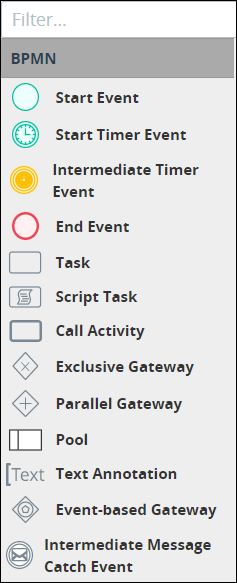
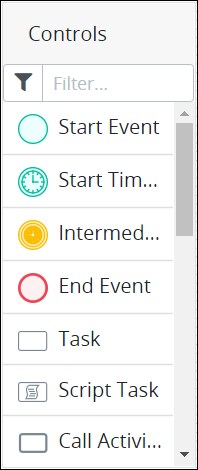
GitBook: [processmaker] 10 pages and 4 assets modified

diff --git a/designing-processes/process-design/model-your-process/filter-elements-in-the-bpmn-panel.md b/designing-processes/process-design/model-your-process/filter-elements-in-the-bpmn-panel.md
@@ -1,13 +1,13 @@
 ---
-description: Filter which BPMN elements display in the BPMN panel.
+description: Filter which elements display in the Controls panel.
 ---
 
-# Filter Elements in the BPMN Panel
+# Filter Elements in the Controls Panel
 
-## Filter Which BPMN Elements Display in the BPMN Panel
+## Filter Which Elements Display in the Controls Panel
 
 {% hint style="info" %}
-Your user account or group membership must have the following permissions to filter BPMN elements in the **BPMN** panel:
+Your user account or group membership must have the following permissions to filter elements in the **Controls** panel:
 
 * Processes: View Processes
 * Processes: Edit Processes
@@ -15,29 +15,71 @@ Your user account or group membership must have the following permissions to fil
 See the [Process](../../../processmaker-administration/permission-descriptions-for-users-and-groups.md#processes) permissions or ask your ProcessMaker Administrator for assistance.
 {% endhint %}
 
-The **BPMN** panel in Process Modeler displays elements that can compose a Process model.
+The **Controls** panel in Process Modeler displays elements that can compose a Process model.
 
-![BPMN Panel in Process Modeler](../../../.gitbook/assets/bpmn-panel-process-modeler-processes.png)
+![Controls Panel in Process Modeler](../../../.gitbook/assets/bpmn-panel-process-modeler-processes.png)
 
 {% hint style="info" %}
 See [Process Modeling Element Descriptions](process-modeling-element-descriptions.md).
 {% endhint %}
 
-Follow these steps to filter which BPMN elements display in the **BPMN** panel:
+Follow these steps to filter which Process modeling elements display in the **Controls** panel:
 
 1. [View your Processes](https://processmaker.gitbook.io/processmaker-4-community/-LPblkrcFWowWJ6HZdhC/~/drafts/-LRhVZm0ddxDcGGdN5ZN/primary/designing-processes/viewing-processes/view-the-list-of-processes/view-your-processes#view-all-processes). The **Processes** page displays.
 2. [Create a new Process](../../viewing-processes/view-the-list-of-processes/create-a-process.md) or click the **Open Modeler** icon![](../../../.gitbook/assets/open-modeler-edit-icon-processes-page-processes.png)to edit the selected Process model. Process Modeler displays.
-3. Select the **Filter** field.
+3. Select the **Filter** field in the **Controls** panel.
 
    ![](../../../.gitbook/assets/filter-bpmn-field-process-modeler-processes.png)
 
-4. Begin entering the name of the Process model element\(s\) to display. Process model elements that do not match your entered text no longer display in the **BPMN** panel.
+4. Begin entering the name of the Process model element\(s\) to display. Process model elements that do not match your entered text no longer display in the **Controls** panel.
 
 {% hint style="info" %}
-To display all Process elements in the **BPMN** panel, remove the text from the **Filter** field.
+To display all Process elements in the **Controls** panel, remove the text from the **Filter** field.
 {% endhint %}
 
 ## Related Topics
 
 {% page-ref page="process-modeling-element-descriptions.md" %}
+
+{% page-ref page="view-the-inspector-panel.md" %}
+
+{% page-ref page="edit-the-process-model-information.md" %}
+
+{% page-ref page="filter-elements-in-the-bpmn-panel.md" %}
+
+{% page-ref page="add-and-configure-an-event-element.md" %}
+
+{% page-ref page="add-and-configure-start-timer-event-elements.md" %}
+
+{% page-ref page="add-and-configure-intermediate-timer-event-elements.md" %}
+
+{% page-ref page="add-and-configure-intermediate-message-catch-event-elements.md" %}
+
+{% page-ref page="add-and-configure-end-event-elements.md" %}
+
+{% page-ref page="add-and-configure-task-elements.md" %}
+
+{% page-ref page="add-and-configure-script-task-elements.md" %}
+
+{% page-ref page="add-and-configure-manual-task-elements.md" %}
+
+{% page-ref page="add-and-configure-call-activity-elements.md" %}
+
+{% page-ref page="add-and-configure-exclusive-gateway-elements.md" %}
+
+{% page-ref page="add-and-configure-inclusive-gateway-elements.md" %}
+
+{% page-ref page="add-and-configure-parallel-gateway-elements.md" %}
+
+{% page-ref page="add-and-configure-event-based-gateway-elements.md" %}
+
+{% page-ref page="add-and-configure-pool-and-lane-elements.md" %}
+
+{% page-ref page="the-quick-toolbar.md" %}
+
+{% page-ref page="set-and-delete-message-flow-between-elements.md" %}
+
+{% page-ref page="add-and-configure-text-annotation-elements.md" %}
+
+{% page-ref page="remove-process-model-elements.md" %}
 

diff --git a/designing-processes/process-design/model-your-process/edit-the-process-model-information.md b/designing-processes/process-design/model-your-process/edit-the-process-model-information.md
@@ -21,7 +21,7 @@ Follow these steps to edit the identifier value for a Process model:
 
 1. [View your Processes](https://processmaker.gitbook.io/processmaker-4-community/-LPblkrcFWowWJ6HZdhC/~/drafts/-LRhVZm0ddxDcGGdN5ZN/primary/designing-processes/viewing-processes/view-the-list-of-processes/view-your-processes#view-all-processes). The **Processes** page displays.
 2. [Create a new Process](../../viewing-processes/view-the-list-of-processes/create-a-process.md) or click the **Open Modeler** icon![](../../../.gitbook/assets/open-modeler-edit-icon-processes-page-processes.png)to edit the selected Process model. Process Modeler displays.
-3. Click anywhere in the Process model other than any Process element so that no elements are selected. In the **Inspector** panel, the current Process model identifier value displays in the **Identifier** field in the right side bar.
+3. Click anywhere in the Process model other than any Process element so that no elements are selected. The **Inspector** panel displays the **Configuration** setting section.
 4. Expand the **Configuration** setting section if it is not presently expanded. The **Identifier** field displays. This is a required field.  
 
    ![](../../../.gitbook/assets/process-model-identier-field-modeler-processes.png)
@@ -45,7 +45,7 @@ Follow these steps to edit the Process model name:
 
 1. [View your Processes](https://processmaker.gitbook.io/processmaker-4-community/-LPblkrcFWowWJ6HZdhC/~/drafts/-LRhVZm0ddxDcGGdN5ZN/primary/designing-processes/viewing-processes/view-the-list-of-processes/view-your-processes#view-all-processes). The **Processes** page displays.
 2. [Create a new Process](../../viewing-processes/view-the-list-of-processes/create-a-process.md) or click the **Open Modeler** icon![](../../../.gitbook/assets/open-modeler-edit-icon-processes-page-processes.png)to edit the selected Process model. Process Modeler displays.
-3. Select anywhere in the Process model other than any Process element so that no elements are selected. The current Process model name displays in the **Name** field in the right side bar.
+3. Click anywhere in the Process model other than any Process element so that no elements are selected. The **Inspector** panel displays the **Configuration** setting section.
 4. Expand the **Configuration** setting section if it is not presently expanded. The **Name** field displays.  
 
    ![](../../../.gitbook/assets/process-model-identier-field-modeler-processes.png)
@@ -55,4 +55,44 @@ Follow these steps to edit the Process model name:
 ## Related Topics
 
 {% page-ref page="process-modeling-element-descriptions.md" %}
+
+{% page-ref page="view-the-inspector-panel.md" %}
+
+{% page-ref page="filter-elements-in-the-bpmn-panel.md" %}
+
+{% page-ref page="add-and-configure-an-event-element.md" %}
+
+{% page-ref page="add-and-configure-start-timer-event-elements.md" %}
+
+{% page-ref page="add-and-configure-intermediate-timer-event-elements.md" %}
+
+{% page-ref page="add-and-configure-intermediate-message-catch-event-elements.md" %}
+
+{% page-ref page="add-and-configure-end-event-elements.md" %}
+
+{% page-ref page="add-and-configure-task-elements.md" %}
+
+{% page-ref page="add-and-configure-script-task-elements.md" %}
+
+{% page-ref page="add-and-configure-manual-task-elements.md" %}
+
+{% page-ref page="add-and-configure-call-activity-elements.md" %}
+
+{% page-ref page="add-and-configure-exclusive-gateway-elements.md" %}
+
+{% page-ref page="add-and-configure-inclusive-gateway-elements.md" %}
+
+{% page-ref page="add-and-configure-parallel-gateway-elements.md" %}
+
+{% page-ref page="add-and-configure-event-based-gateway-elements.md" %}
+
+{% page-ref page="add-and-configure-pool-and-lane-elements.md" %}
+
+{% page-ref page="the-quick-toolbar.md" %}
+
+{% page-ref page="set-and-delete-message-flow-between-elements.md" %}
+
+{% page-ref page="add-and-configure-text-annotation-elements.md" %}
+
+{% page-ref page="remove-process-model-elements.md" %}
 

diff --git a/SUMMARY.md b/SUMMARY.md
@@ -79,7 +79,7 @@
     * [Screens Builder Modes](designing-processes/design-forms/screens-builder/screens-builder-modes.md)
     * [View the Inspector Panel](designing-processes/design-forms/screens-builder/view-the-inspector-pane.md)
     * [Validate Your Screen](designing-processes/design-forms/screens-builder/validate-your-screen.md)
-    * [Edit a Screen](designing-processes/design-forms/screens-builder/control-descriptions/README.md)
+    * [Edit Your Screen](designing-processes/design-forms/screens-builder/control-descriptions/README.md)
       * [Text Control Settings](designing-processes/design-forms/screens-builder/control-descriptions/text-control-settings.md)
       * [Rich Text Control Settings](designing-processes/design-forms/screens-builder/control-descriptions/rich-text-control-settings.md)
       * [Line Inputs Control Settings](designing-processes/design-forms/screens-builder/control-descriptions/line-input-control-settings.md)
@@ -101,7 +101,7 @@
     * [Preview a Screen and Its JSON Data Model](designing-processes/design-forms/screens-builder/preview-a-screen.md)
     * [Manage Computed Properties](designing-processes/design-forms/screens-builder/manage-computed-properties.md)
     * [Add Custom CSS to a Screen](designing-processes/design-forms/screens-builder/add-custom-css-to-a-screen.md)
-    * [Save a Screen](designing-processes/design-forms/screens-builder/save-a-screen.md)
+    * [Save Your Screen](designing-processes/design-forms/screens-builder/save-a-screen.md)
     * [Screens Builder Best Practices](designing-processes/design-forms/screens-builder/best-practices.md)
 * [Environment Variable Management](designing-processes/environment-variable-management/README.md)
   * [What is an Environment Variable?](designing-processes/environment-variable-management/what-is-an-environment-variable.md)
@@ -114,10 +114,10 @@
 * [Process Modeling](designing-processes/process-design/README.md)
   * [What is Process Modeling?](designing-processes/process-design/what-is-process-modeling.md)
   * [Model Your Process](designing-processes/process-design/model-your-process/README.md)
-    * [View the Inspector Panel](designing-processes/process-design/model-your-process/view-the-inspector-panel.md)
     * [Process Modeling Element Descriptions](designing-processes/process-design/model-your-process/process-modeling-element-descriptions.md)
+    * [View the Inspector Panel](designing-processes/process-design/model-your-process/view-the-inspector-panel.md)
     * [Edit the Process Model Information](designing-processes/process-design/model-your-process/edit-the-process-model-information.md)
-    * [Filter Elements in the BPMN Panel](designing-processes/process-design/model-your-process/filter-elements-in-the-bpmn-panel.md)
+    * [Filter Elements in the Controls Panel](designing-processes/process-design/model-your-process/filter-elements-in-the-bpmn-panel.md)
     * [Add and Configure Start Event Elements](designing-processes/process-design/model-your-process/add-and-configure-an-event-element.md)
     * [Add and Configure Start Timer Event Elements](designing-processes/process-design/model-your-process/add-and-configure-start-timer-event-elements.md)
     * [Add and Configure Intermediate Timer Event Elements](designing-processes/process-design/model-your-process/add-and-configure-intermediate-timer-event-elements.md)

diff --git a/designing-processes/process-design/model-your-process/view-the-inspector-panel.md b/designing-processes/process-design/model-your-process/view-the-inspector-panel.md
@@ -8,6 +8,8 @@ description: Use the Inspector panel to set Process model element settings.
 
 The **Inspector** panel in Process Modeler displays Process model element settings. Use the **Inspector** panel to configure your Process model and its elements. The **Inspector** panel displays to the right of a your Process model.
 
+![Inspector panel in Process Modeler displays to the right of the Process model](../../../.gitbook/assets/inspector-panel-process-modeler-processes.png)
+
 {% hint style="info" %}
 Your user account or group membership must have the following permissions to view the **Inspector** panel in Process Modeler:
 
@@ -21,4 +23,50 @@ Follow these steps to view the **Inspector** panel:
 
 1. [View your Processes](https://processmaker.gitbook.io/processmaker-4-community/-LPblkrcFWowWJ6HZdhC/~/drafts/-LRhVZm0ddxDcGGdN5ZN/primary/designing-processes/viewing-processes/view-the-list-of-processes/view-your-processes#view-all-processes). The **Processes** page displays.
 2. [Create a new Process](../../viewing-processes/view-the-list-of-processes/create-a-process.md) or click the **Open Modeler** icon![](../../../.gitbook/assets/open-modeler-edit-icon-processes-page-processes.png)to edit the selected Process model. Process Modeler displays.
+3. Do one of the following:
+   * Click anywhere in the Process model other than any Process element so that no elements are selected. The **Inspector** panel displays settings for the Process model.
+   * Select the Process model element in which to view its settings. The **Inspector** panel displays the settings for that element.
+4. Make a change to a setting if necessary. The setting changes. Note that settings are not committed until the Process model is [saved](toolboxes.md#save-your-process-model).
+
+## Related Topics
+
+{% page-ref page="edit-the-process-model-information.md" %}
+
+{% page-ref page="filter-elements-in-the-bpmn-panel.md" %}
+
+{% page-ref page="add-and-configure-an-event-element.md" %}
+
+{% page-ref page="add-and-configure-start-timer-event-elements.md" %}
+
+{% page-ref page="add-and-configure-intermediate-timer-event-elements.md" %}
+
+{% page-ref page="add-and-configure-intermediate-message-catch-event-elements.md" %}
+
+{% page-ref page="add-and-configure-end-event-elements.md" %}
+
+{% page-ref page="add-and-configure-task-elements.md" %}
+
+{% page-ref page="add-and-configure-script-task-elements.md" %}
+
+{% page-ref page="add-and-configure-manual-task-elements.md" %}
+
+{% page-ref page="add-and-configure-call-activity-elements.md" %}
+
+{% page-ref page="add-and-configure-exclusive-gateway-elements.md" %}
+
+{% page-ref page="add-and-configure-inclusive-gateway-elements.md" %}
+
+{% page-ref page="add-and-configure-parallel-gateway-elements.md" %}
+
+{% page-ref page="add-and-configure-event-based-gateway-elements.md" %}
+
+{% page-ref page="add-and-configure-pool-and-lane-elements.md" %}
+
+{% page-ref page="the-quick-toolbar.md" %}
+
+{% page-ref page="set-and-delete-message-flow-between-elements.md" %}
+
+{% page-ref page="add-and-configure-text-annotation-elements.md" %}
+
+{% page-ref page="remove-process-model-elements.md" %}
 

diff --git a/designing-processes/design-forms/screens-builder/control-descriptions/image-control-settings.md b/designing-processes/design-forms/screens-builder/control-descriptions/image-control-settings.md
@@ -63,15 +63,6 @@ See the ProcessMaker [Screens](../../../../processmaker-administration/permissio
 
 Below are Inspector settings for the Image control:
 
-* **Id:** Enter the unique internal image identification.
-* **Variable Name:** Enter a unique name that represents this control's value. Use the **Variable Name** value in the following ways:
-
-  * Reference this control by its **Variable Name** setting's value.
-  * Reference this control's value in a different Screens Builder control. To do so, use mustache syntax and reference this control's **Variable Name** value in the target control. Example: `My full name is {{FullName}}`.
-  * Reference this value in [**Visibility Rule** setting expressions](expression-syntax-components-for-show-if-control-settings.md).
-
-  This is a required setting.
-
 * **Upload Image:** Click the **Upload Image** button to browse for the PNG, GIF, or JPG file type image to upload to the Image control.
 * **Preview:** This setting displays a preview of the uploaded image.
 * **Width:** Specify the width of the uploaded image in pixels. If the **Height** setting has no value, the Image control adjust the uploaded image to the **Width** setting value.

diff --git a/designing-processes/design-forms/screens-builder/view-the-inspector-pane.md b/designing-processes/design-forms/screens-builder/view-the-inspector-pane.md
@@ -27,6 +27,7 @@ Follow these steps to view the **Inspector** panel in Design mode:
 
 1. [Create a new ProcessMaker Screen](../manage-forms/create-a-new-form.md) or click the **Edit** icon![](../../../.gitbook/assets/edit-icon.png)to edit the selected Screen. The ProcessMaker Screen is in [Design mode](screens-builder-modes.md#editor-mode).
 2. Select the control in which to view its settings. The **Inspector** panel displays the settings for that control.
+3. Make a change to a setting if necessary. The setting changes. Note that settings are not committed to the ProcessMaker Screen is [saved](save-a-screen.md#save-a-processmaker-screen).
 
 ![Inspector panel displaying control settings in Design mode](../../../.gitbook/assets/inspector-panel-scripts-builder-processes.png)
 

diff --git a/designing-processes/design-forms/screens-builder/control-descriptions/validation-rules-for-validation-control-settings.md b/designing-processes/design-forms/screens-builder/control-descriptions/validation-rules-for-validation-control-settings.md
@@ -124,7 +124,7 @@ The field under validation must match the given regular expression.
 
 ### **required**
 
-Checks if the length of the String representation of the value is complies with the validation described with the following `required` rules.
+Checks if the length of the String representation of the value complies with the validation described with the following `required` rules.
 
 #### **required\_if:anotherfield,value**
 

diff --git a/designing-processes/process-design/model-your-process/process-modeling-element-descriptions.md b/designing-processes/process-design/model-your-process/process-modeling-element-descriptions.md
@@ -429,6 +429,8 @@ See [Add and Configure Text Annotation and Association Elements](add-and-configu
 
 {% page-ref page="../../../using-processmaker/requests/what-is-a-request.md" %}
 
+{% page-ref page="view-the-inspector-panel.md" %}
+
 {% page-ref page="edit-the-process-model-information.md" %}
 
 {% page-ref page="filter-elements-in-the-bpmn-panel.md" %}

diff --git a/designing-processes/design-forms/screens-builder/control-descriptions/README.md b/designing-processes/design-forms/screens-builder/control-descriptions/README.md
@@ -1,6 +1,6 @@
 ---
-description: Understand how to use controls to design ProcessMaker Screens.
+description: Understand how to use controls to design your ProcessMaker Screens.
 ---
 
-# Edit a Screen
+# Edit Your Screen
 

diff --git a/designing-processes/design-forms/screens-builder/save-a-screen.md b/designing-processes/design-forms/screens-builder/save-a-screen.md
@@ -1,8 +1,8 @@
 ---
-description: Save your ProcessMaker Screen design.
+description: Save your designed ProcessMaker Screen.
 ---
 
-# Save a Screen
+# Save Your Screen
 
 ## Save a ProcessMaker Screen
 
